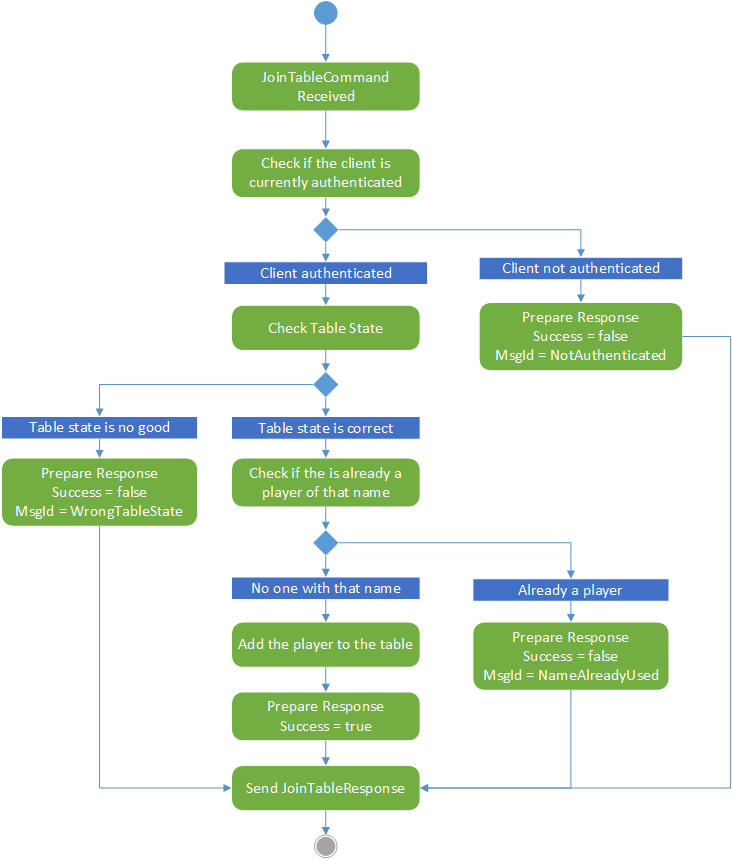
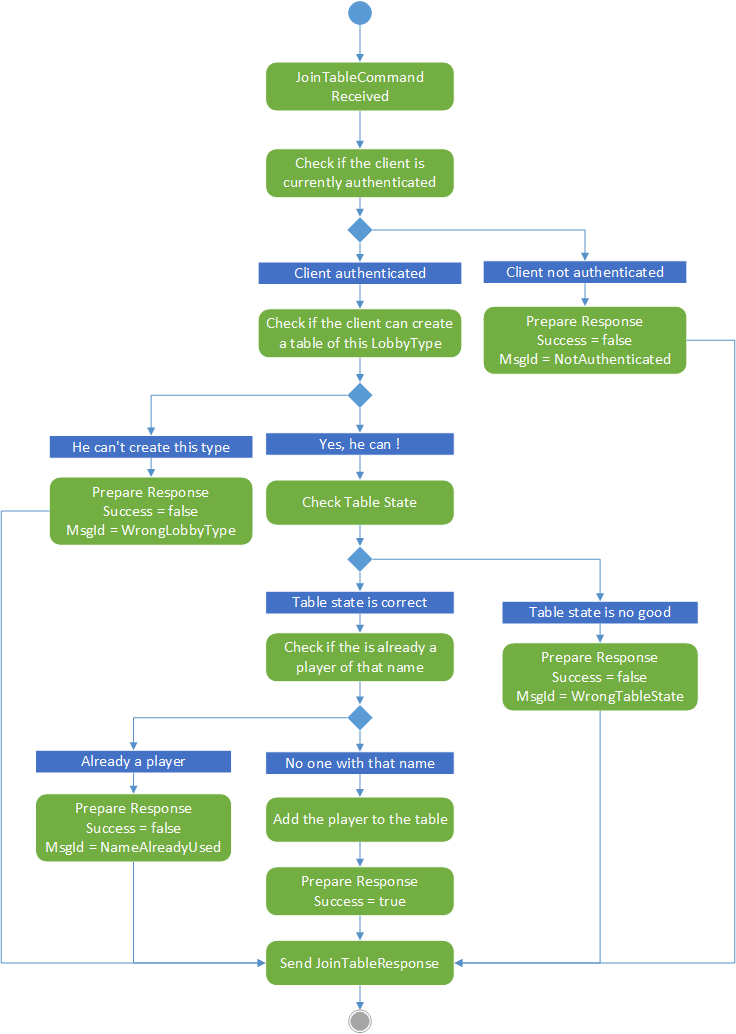
#4 #5: Adding verification of lobbytype to the protocol

diff --git a/C#/BluffinMuffin.Protocol/Enums/BluffinMessageId.cs b/C#/BluffinMuffin.Protocol/Enums/BluffinMessageId.cs
@@ -60,5 +60,10 @@ namespace BluffinMuffin.Protocol.Enums
         /// NotAuthenticated
         /// </summary>
         NotAuthenticated,
+
+        /// <summary>
+        /// WrongLobbyType
+        /// </summary>
+        WrongLobbyType,
     }
 }

diff --git a/Documentation/BluffinMuffin.Protocol.Lobby.QuickMode.IdentifyCommand.md b/Documentation/BluffinMuffin.Protocol.Lobby.QuickMode.IdentifyCommand.md
@@ -66,7 +66,8 @@ In Quick mode, you must **identify** yourself. This action puts a unique name to
         "InvalidPassword",
         "SeatChanged",
         "NoMoreSeats",
-        "NotAuthenticated"
+        "NotAuthenticated",
+        "WrongLobbyType"
       ]
     },
     "Message": {

diff --git a/Documentation/BluffinMuffin.Protocol.Lobby.RegisteredMode.AuthenticateUserCommand.md b/Documentation/BluffinMuffin.Protocol.Lobby.RegisteredMode.AuthenticateUserCommand.md
@@ -71,7 +71,8 @@ This command will try to authenticate the client against the user database on th
         "InvalidPassword",
         "SeatChanged",
         "NoMoreSeats",
-        "NotAuthenticated"
+        "NotAuthenticated",
+        "WrongLobbyType"
       ]
     },
     "Message": {

diff --git a/Documentation/BluffinMuffin.Protocol.Lobby.RegisteredMode.CheckDisplayExistCommand.md b/Documentation/BluffinMuffin.Protocol.Lobby.RegisteredMode.CheckDisplayExistCommand.md
@@ -66,7 +66,8 @@ In the User Creation Process, it's useful to check if the display name is alread
         "InvalidPassword",
         "SeatChanged",
         "NoMoreSeats",
-        "NotAuthenticated"
+        "NotAuthenticated",
+        "WrongLobbyType"
       ]
     },
     "Message": {

diff --git a/Documentation/BluffinMuffin.Protocol.Lobby.RegisteredMode.CheckUserExistCommand.md b/Documentation/BluffinMuffin.Protocol.Lobby.RegisteredMode.CheckUserExistCommand.md
@@ -66,7 +66,8 @@ In the User Creation Process, it's useful to check if the username is already ta
         "InvalidPassword",
         "SeatChanged",
         "NoMoreSeats",
-        "NotAuthenticated"
+        "NotAuthenticated",
+        "WrongLobbyType"
       ]
     },
     "Message": {

diff --git a/Documentation/BluffinMuffin.Protocol.Lobby.RegisteredMode.GetUserCommand.md b/Documentation/BluffinMuffin.Protocol.Lobby.RegisteredMode.GetUserCommand.md
@@ -61,7 +61,8 @@ This command will Get the information about a player. This information should be
         "InvalidPassword",
         "SeatChanged",
         "NoMoreSeats",
-        "NotAuthenticated"
+        "NotAuthenticated",
+        "WrongLobbyType"
       ]
     },
     "Message": {

diff --git a/Documentation/BluffinMuffin.Protocol.Game.PlayerSitInCommand.md b/Documentation/BluffinMuffin.Protocol.Game.PlayerSitInCommand.md
@@ -72,7 +72,8 @@ The client is telling the server that he wants to sit at a specific seat
         "InvalidPassword",
         "SeatChanged",
         "NoMoreSeats",
-        "NotAuthenticated"
+        "NotAuthenticated",
+        "WrongLobbyType"
       ]
     },
     "Message": {

diff --git a/Documentation/BluffinMuffin.Protocol.Game.PlayerSitOutCommand.md b/Documentation/BluffinMuffin.Protocol.Game.PlayerSitOutCommand.md
@@ -62,7 +62,8 @@ The client is telling the server that he wants to sit out
         "InvalidPassword",
         "SeatChanged",
         "NoMoreSeats",
-        "NotAuthenticated"
+        "NotAuthenticated",
+        "WrongLobbyType"
       ]
     },
     "Message": {

diff --git a/Documentation/BluffinMuffin.Protocol.Lobby.SupportedRulesCommand.md b/Documentation/BluffinMuffin.Protocol.Lobby.SupportedRulesCommand.md
@@ -63,7 +63,8 @@ All the supported rules are then sent back to the client.
         "InvalidPassword",
         "SeatChanged",
         "NoMoreSeats",
-        "NotAuthenticated"
+        "NotAuthenticated",
+        "WrongLobbyType"
       ]
     },
     "Message": {

diff --git a/Documentation/BluffinMuffin.Protocol.Lobby.RegisteredMode.CreateUserCommand.md b/Documentation/BluffinMuffin.Protocol.Lobby.RegisteredMode.CreateUserCommand.md
@@ -81,7 +81,8 @@ This commands will create a new user in the database.
         "InvalidPassword",
         "SeatChanged",
         "NoMoreSeats",
-        "NotAuthenticated"
+        "NotAuthenticated",
+        "WrongLobbyType"
       ]
     },
     "Message": {

diff --git a/Documentation/BluffinMuffin.Protocol.Lobby.JoinTableCommand.md b/Documentation/BluffinMuffin.Protocol.Lobby.JoinTableCommand.md
@@ -68,7 +68,8 @@ The success of the operation will be sent back
         "InvalidPassword",
         "SeatChanged",
         "NoMoreSeats",
-        "NotAuthenticated"
+        "NotAuthenticated",
+        "WrongLobbyType"
       ]
     },
     "Message": {

diff --git a/Documentation/BluffinMuffin.Protocol.Lobby.ListTableCommand.md b/Documentation/BluffinMuffin.Protocol.Lobby.ListTableCommand.md
@@ -78,7 +78,8 @@ The list of active tables will be sent back
         "InvalidPassword",
         "SeatChanged",
         "NoMoreSeats",
-        "NotAuthenticated"
+        "NotAuthenticated",
+        "WrongLobbyType"
       ]
     },
     "Message": {
